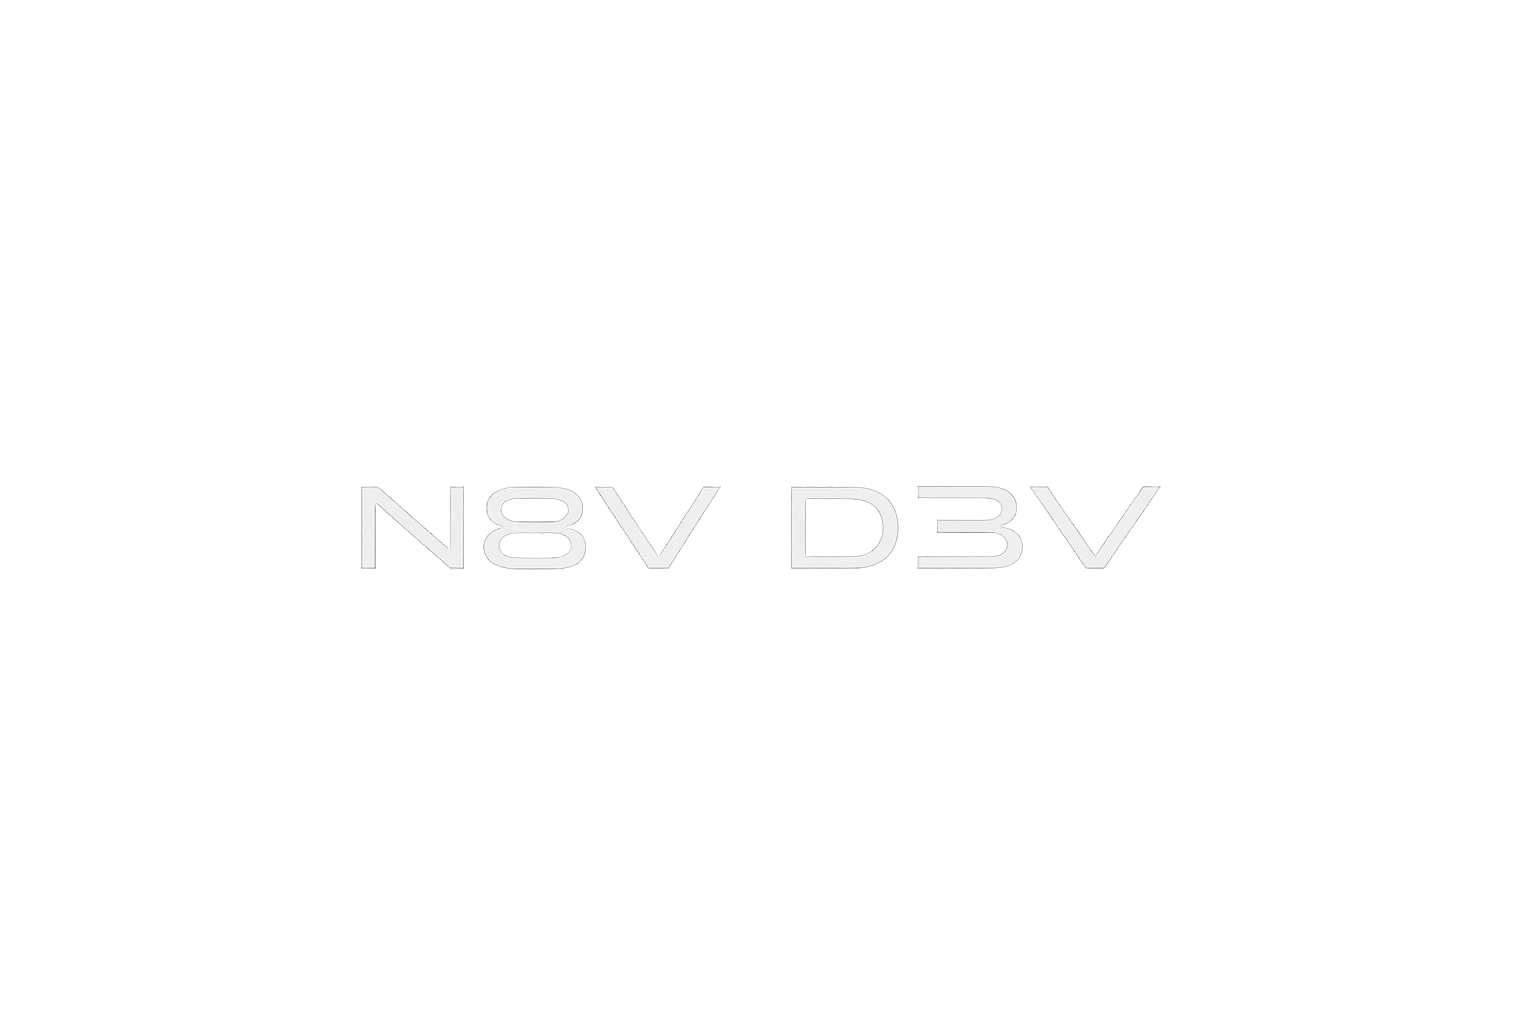
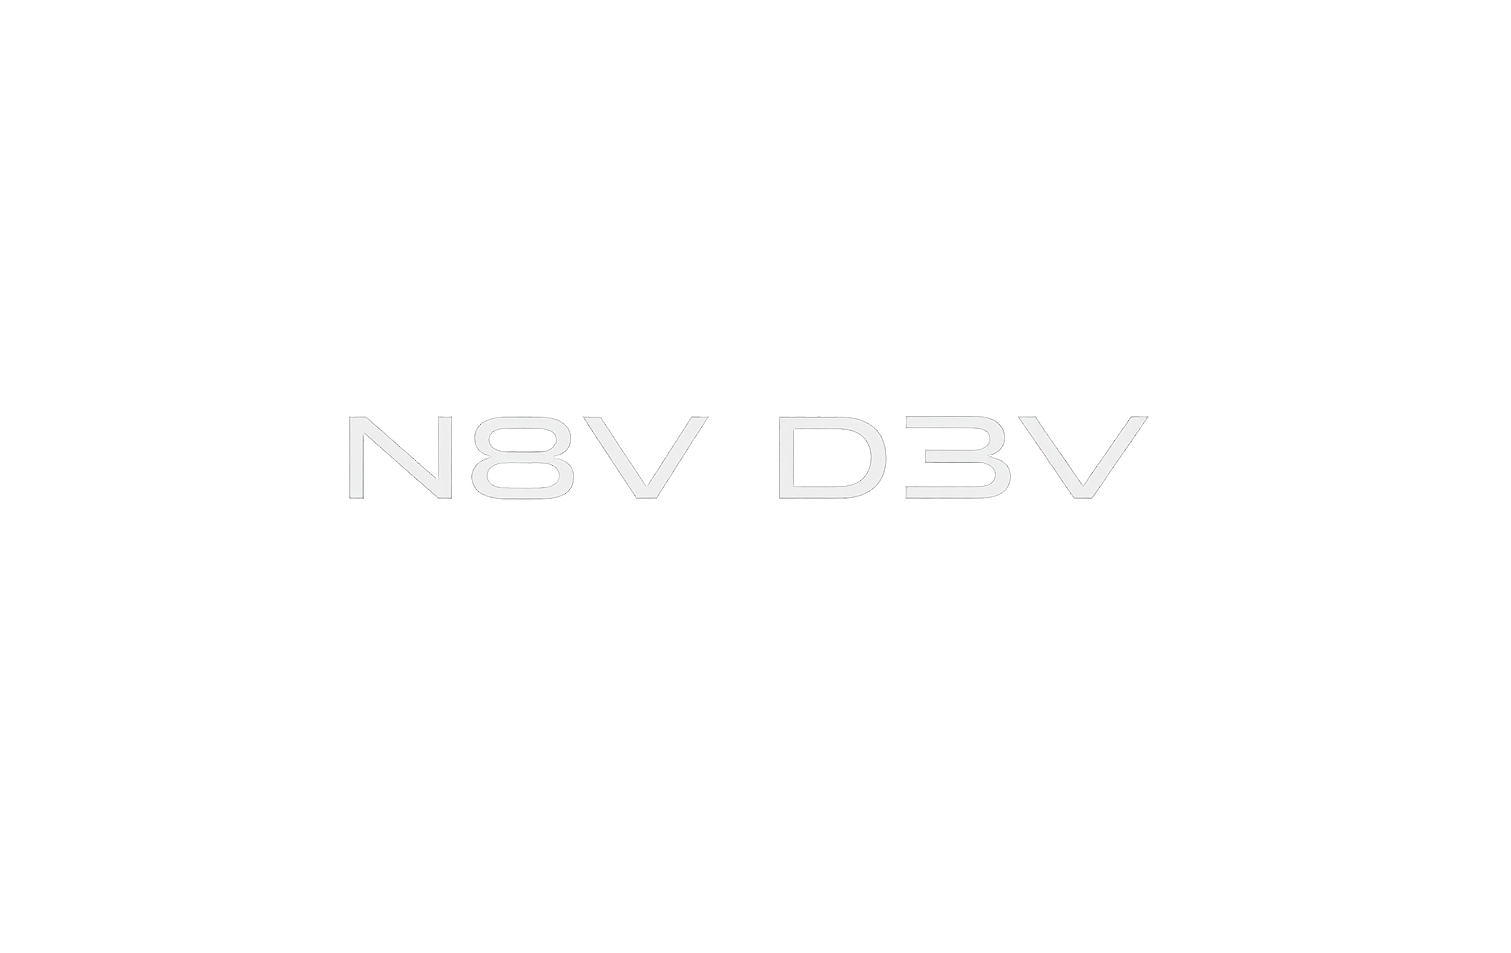
UPDATE: tighten brand lockups on home and support
Refine the home and support page brand treatments, trim the wordmark and tagline assets to reduce empty space, and tighten the hero lockups so the logo, wordmark, and tagline render as a more cohesive unit.

diff --git a/storage/assets/styles/support-company.css b/storage/assets/styles/support-company.css
@@ -115,12 +115,12 @@ a {
   display: grid;
   justify-items: center;
   align-items: center;
-  gap: 18px;
+  gap: 10px;
   text-align: center;
 }
 
 .hero-brand-mark {
-  width: clamp(88px, 11vw, 120px);
+  width: clamp(88px, 11vw, 116px);
   height: auto;
   object-fit: contain;
   filter: drop-shadow(0 18px 32px rgba(0, 0, 0, 0.28));
@@ -133,13 +133,13 @@ a {
 }
 
 .hero-wordmark {
-  width: min(360px, 72vw);
+  width: min(320px, 62vw);
   height: auto;
   display: block;
 }
 
 .hero-tagline {
-  width: min(320px, 64vw);
+  width: min(240px, 48vw);
   height: auto;
   display: block;
   opacity: 0.82;

diff --git a/storage/assets/styles/home.css b/storage/assets/styles/home.css
@@ -267,25 +267,25 @@ a {
 
 .hero-lockup {
   justify-items: center;
-  gap: 16px;
+  gap: 10px;
   text-align: center;
 }
 
 .hero-brand-mark {
-  width: clamp(88px, 11vw, 120px);
+  width: clamp(88px, 11vw, 116px);
   height: auto;
   object-fit: contain;
   filter: drop-shadow(0 22px 34px rgba(0, 0, 0, 0.34));
 }
 
 .hero-wordmark {
-  width: min(360px, 70vw);
+  width: min(320px, 62vw);
   height: auto;
   display: block;
 }
 
 .hero-tagline {
-  width: min(320px, 62vw);
+  width: min(240px, 48vw);
   height: auto;
   display: block;
   opacity: 0.82;
